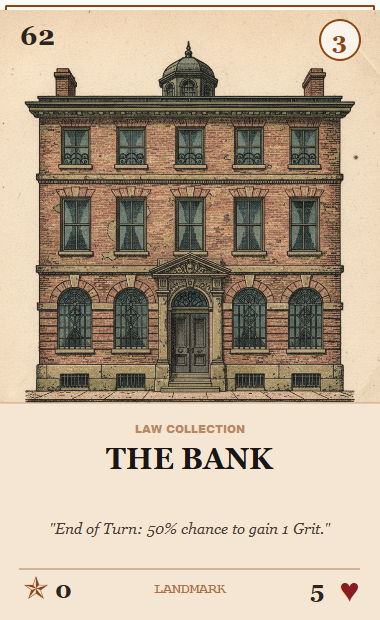
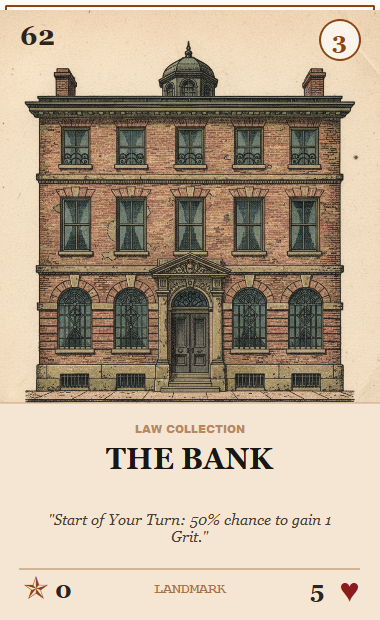
feat: Implement new game mechanics and enhance card interactions

Changed region(s): [[0.1158, 0.8274, 0.8684, 0.8887]]

diff --git a/html/cards.js b/html/cards.js
@@ -23,7 +23,7 @@ const _CardDB_fallback = [
     {id: 31, faction: "Law", name: "TELEGRAPH", type: "Unit", cost: 2, atk: 1, hp: 2, text: "Battlecry: Draw 1 card."},
     {id: 32, faction: "Law", name: "SNIPER", type: "Unit", cost: 4, atk: 4, hp: 2, text: "Immune while attacking."},
     {id: 33, faction: "Law", name: "COURTHOUSE", type: "Landmark", cost: 4, atk: 0, hp: 6, text: "Your units have +1 Health."},
-    {id: 62, faction: "Law", name: "THE BANK", type: "Landmark", cost: 3, atk: 0, hp: 5, text: "End of Turn: 50% chance to gain 1 Grit."},
+    {id: 62, faction: "Law", name: "THE BANK", type: "Landmark", cost: 3, atk: 0, hp: 5, text: "Start of your turn: 50% chance to gain 1 Grit."},
     {id: 68, faction: "Law", name: "THE GALLOWS", type: "Landmark", cost: 3, atk: 0, hp: 4, text: "Enemy units have -1 Attack."},
     {id: 74, faction: "Law", name: "SHERIFF BADGE", type: "Gear", cost: 2, atk: 0, hp: 0, text: "Give a Unit +1/+3 and Guardian."},
     {id: 80, faction: "Law", name: "MARSHAL EARP", type: "Hero", cost: 0, atk: 0, hp: 30, text: "Hero Power (2 Grit): Summon a 1/1 Deputy with Guard."},
@@ -187,17 +187,20 @@ function getCardLogic(cardData) {
         onPlay: null,
         onDeath: null,
         onTurnEnd: null,
-        onTurnStart: null
+        onTurnStart: null,
+        requiresTarget: false
     };
 
     const text = cardData.text ? cardData.text.toLowerCase() : "";
     const id = cardData.id;
 
-    // 1. Klíčová slova
-    if (text.includes("guardian")) logic.keywords.push("Guardian");
-    if (text.includes("ambush"))   logic.keywords.push("Ambush");
-    if (text.includes("stealth"))  logic.keywords.push("Stealth");
-    if (text.includes("lethal"))   logic.keywords.push("Lethal");
+    // 1. Klíčová slova (pouze pro Unit karty — aby Landmark s textem "have Stealth" nedostal keyword sám sobě)
+    if (cardData.type === "Unit") {
+        if (text.includes("guardian")) logic.keywords.push("Guardian");
+        if (text.includes("ambush"))   logic.keywords.push("Ambush");
+        if (text.includes("stealth"))  logic.keywords.push("Stealth");
+        if (text.includes("lethal"))   logic.keywords.push("Lethal");
+    }
 
     // Pasivní flagy
     if (text.includes("attack twice"))                                   logic.keywords.push("DoubleAttack");
@@ -338,6 +341,14 @@ function getCardLogic(cardData) {
                 return;
             }
 
+            // BEAR TRAP: Deal 3 damage to an undamaged Unit.
+            if (id === 15) {
+                if (target && typeof target !== "string" && target.hp === target.maxHp) {
+                    game.dealDamage(target, 3);
+                }
+                return;
+            }
+
             // PRAIRIE FIRE: Deal 1 damage to all Units. Repeat 3 times.
             if (id === 121) {
                 for (let i = 0; i < 3; i++) {
@@ -424,10 +435,11 @@ function getCardLogic(cardData) {
             // SHADOW WALKER (112): Battlecry: Deal 1 damage to all enemies.
             if (id === 112) { game.damageAllEnemies(1); return; }
 
-            // WITCH'S BREW (113): Give a Unit +3/+3.
+            // WITCH'S BREW (113): Give a Unit +3/+3. At end of turn, destroy it.
             if (id === 113) {
                 if (target && typeof target !== "string") {
                     target.atk += 3; target.hp += 3; target.maxHp += 3;
+                    target.scheduledDestroy = true;
                 }
                 return;
             }
@@ -456,10 +468,11 @@ function getCardLogic(cardData) {
             // CARD SHARK (118): Battlecry: Peek at top card (simplified: draw 1).
             if (id === 118) { game.drawCard("player", 1); return; }
 
-            // WHISKEY BOTTLE (119): Give a Unit +2 Attack.
+            // WHISKEY BOTTLE (119): Give a Unit +2 Attack until end of turn.
             if (id === 119) {
                 if (target && typeof target !== "string") {
                     target.atk += 2; target.baseAtk = target.atk;
+                    target.tempAtkBuff = (target.tempAtkBuff || 0) + 2;
                 }
                 return;
             }
@@ -510,7 +523,9 @@ function getCardLogic(cardData) {
                 let dmg = parseInt(dmgMatch[1]);
                 if (text.includes("to all characters")) {
                     game.damageAll(dmg, true);
-                } else if (text.includes("to all enemy units") || text.includes("to all units")) {
+                } else if (text.includes("to all enemy units")) {
+                    game.damageAllEnemies(dmg);
+                } else if (text.includes("to all units")) {
                     game.damageAll(dmg, false);
                 } else if (text.includes("to your hero")) {
                     game.damageHero("player", dmg);
@@ -641,11 +656,6 @@ function getCardLogic(cardData) {
                 game.healHero("player", 1);
                 return;
             }
-            // THE BANK: 50% chance to gain 1 Grit.
-            if (id === 62) {
-                if (Math.random() >= 0.5) game.addGrit("player", 1);
-                return;
-            }
             // OUTLAW CAMP (100): Give a random Outlaw in hand +1/+1.
             if (id === 100) {
                 let outlaws = playerHand.filter(c => c.faction === "Outlaw");
@@ -690,6 +700,11 @@ function getCardLogic(cardData) {
             // TRAIN STATION: Draw an extra card.
             if (id === 66) {
                 game.drawCard("player", 1);
+                return;
+            }
+            // THE BANK: 50% chance to gain 1 Grit.
+            if (id === 62) {
+                if (Math.random() >= 0.5) game.addGrit("player", 1);
                 return;
             }
         };
@@ -764,6 +779,33 @@ function getCardLogic(cardData) {
             if (id === 130) { game.drawAndPlayIfCheap("player", 3); return; }
         };
     }
+
+    // Karty vyžadující výběr cíle (dle ID) — Gear vždy, ostatní per ID
+    const REQUIRES_TARGET_IDS = new Set([
+        4,   // HANDCUFFS
+        8,   // DUELIST
+        9,   // MOLOTOV
+        15,  // BEAR TRAP
+        25,  // SAFECRACKER
+        26,  // THE HANGMAN
+        28,  // RAILROAD BOSS
+        30,  // CELL DOOR
+        39,  // GETAWAY HORSE
+        49,  // STRANGE MAN
+        58,  // SWAMP WITCH
+        82,  // SITTING BEAR
+        83,  // BARON SAMEDI
+        87,  // JUDGE'S GAVEL
+        89,  // PRISON WAGON
+        95,  // SNAKE EYES
+        97,  // SABOTAGE
+        113, // WITCH'S BREW
+        119, // WHISKEY BOTTLE
+        120, // BOUNTY HUNTER
+        126, // JUDGE HOLLIDAY
+        129, // THE PALE RIDER
+    ]);
+    logic.requiresTarget = cardData.type === "Gear" || REQUIRES_TARGET_IDS.has(id);
 
     return logic;
 }

diff --git a/html/game-state.js b/html/game-state.js
@@ -6,15 +6,27 @@ function checkDeaths() {
     // OLD GRAVEYARD (id:67): umírající unit friendly jde zpět do ruky
     const hasOldGraveyard = playerBoard.some(b => b.id === 67);
 
+    // UNDERTAKER (id:123): počítáme, kolik přátelských Unit (ne samotný Undertaker) zemřelo
+    let undertakerDeaths = 0;
+
+    // WENDIGO (id:110): sledujeme celkový počet zemřelých jednotek (obě strany)
+    let wendigoDeaths = 0;
+
+    // CURSED GROUND (id:111): jednotky umírající pod jeho vlivem nelze vzkřísit
+    const hasCursedGroundOnEnemy = enemyBoard.some(b => b.id === 111);
+
     playerBoard = playerBoard.filter(u => {
         if (u.hp <= 0) {
-            if (hasOldGraveyard && u.type === "Unit" && u.id !== 67 && playerHand.length < 10) {
+            if (hasCursedGroundOnEnemy && u.type === "Unit") u.cursed = true;
+            if (hasOldGraveyard && u.type === "Unit" && u.id !== 67 && !u.cursed && playerHand.length < 10) {
                 u.hp = u.maxHp;
                 u.canAttack = false;
                 u.auraAtk = 0; u.auraHp = 0; u.auraKeywords = [];
                 playerHand.push(u);
                 return false;
             }
+            if (u.type === "Unit" && u.id !== 123) undertakerDeaths++;
+            if (u.type === "Unit") wendigoDeaths++;
             if (u.logic && u.logic.onDeath) u.logic.onDeath(GameInterface, u);
             playerGraveyard.push(u);
             SoundFX.death();
@@ -23,13 +35,28 @@ function checkDeaths() {
         return true;
     });
 
+    // UNDERTAKER (id:123): za každou zesnulou přátelskou Unit gain +1 Grit
+    if (undertakerDeaths > 0 && playerBoard.some(b => b.id === 123)) {
+        GameInterface.addGrit("player", undertakerDeaths);
+    }
+
+    const hasCursedGroundOnPlayer = playerBoard.some(b => b.id === 111);
+
     enemyBoard = enemyBoard.filter(u => {
         if (u.hp <= 0) {
+            if (hasCursedGroundOnPlayer && u.type === "Unit") u.cursed = true;
+            if (u.type === "Unit") wendigoDeaths++;
             enemyGraveyard.push(u);
             return false;
         }
         return true;
     });
+
+    // WENDIGO (id:110): +2 Attack za každou zemřelou jednotku
+    if (wendigoDeaths > 0) {
+        playerBoard.filter(u => u.id === 110).forEach(u => { u.atk += 2 * wendigoDeaths; u.baseAtk = u.atk; });
+        enemyBoard.filter(u => u.id === 110).forEach(u => { u.atk += 2 * wendigoDeaths; u.baseAtk = u.atk; });
+    }
 
     if (playerHp <= 0) {
         showEndScreen(false);

diff --git a/html/interaction.js b/html/interaction.js
@@ -18,25 +18,7 @@ function handleCardClick(index) {
         return;
     }
 
-    const text = card.text.toLowerCase();
-    const needsTarget = (
-        card.type === "Gear" ||
-        (card.type === "Spell" && (
-            text.includes("deal") ||
-            text.includes("give") ||
-            text.includes("destroy") ||
-            text.includes("heal") ||
-            text.includes("return a unit") ||
-            text.includes("choose an enemy")
-        )) ||
-        (card.logic.onPlay && text.includes("target"))
-    );
-
-    const isGlobal = text.includes("all units") || text.includes("all characters") ||
-        text.includes("all enemy") || text.includes("all friendly") ||
-        text.includes("all damaged") || text.includes("random");
-
-    if (needsTarget && !isGlobal) {
+    if (card.logic.requiresTarget) {
         selectedCardIndex = index;
         selectedAttacker = null;
         updateUI();
@@ -62,6 +44,11 @@ function handleUnitClick(unit, isEnemy) {
         if (isEnemy && unit.keywords.includes("Stealth")) return;
         // WHITE BISON (id:43): imunní vůči Spellům a Gearům
         if (unit.id === 43 && (card.type === "Spell" || card.type === "Gear")) return;
+        // Gear limit: max 2 slotů (nebo target.gearSlots pokud karta říká jinak)
+        if (card.type === "Gear" && unit.type === "Unit") {
+            let maxGear = unit.gearSlots || 2;
+            if ((unit.gear || []).length >= maxGear) return;
+        }
         playCard(selectedCardIndex, unit);
         selectedCardIndex = -1;
         return;

diff --git a/html/render.js b/html/render.js
@@ -43,7 +43,7 @@ function applyAuras() {
 
         let newAuraKeywords = [];
         if (hasGangLeader && u.faction === "Outlaw" && u.id !== 35) newAuraKeywords.push("Ambush");
-        if (hasHideout) newAuraKeywords.push("Stealth");
+        if (hasHideout && u.type === "Unit" && !u.keywords.includes("Guardian")) newAuraKeywords.push("Stealth");
 
         newAuraKeywords.forEach(k => { if (!u.keywords.includes(k)) u.keywords.push(k); });
         u.auraKeywords = newAuraKeywords;
@@ -124,9 +124,13 @@ function updateUI() {
     }
     $("#opp-hero").toggleClass("hero-targetable", !!(heroAttackable || heroSpellTargetable));
 
-    $("#opp-hero").off("click mousedown")
+    $("#opp-hero").off("click mousedown contextmenu")
         .on("mousedown", function(e) { e.stopPropagation(); })
-        .on("click", handleEnemyHeroClick);
+        .on("click", handleEnemyHeroClick)
+        .on("contextmenu", (e) => { e.preventDefault(); if (enemyHeroCard) showCardZoom(enemyHeroCard); });
+
+    $("#player-hero").off("contextmenu")
+        .on("contextmenu", (e) => { e.preventDefault(); if (playerHeroCard) showCardZoom(playerHeroCard); });
 }
 
 function renderBoard(container, boardData, isEnemy) {

diff --git a/html/game-interface.js b/html/game-interface.js
@@ -119,7 +119,7 @@ function makeGameInterface(perspective) {
             const hand  = getHand(actual);
             let idx = -1;
             for (let i = grave.length - 1; i >= 0; i--) {
-                if (grave[i].type === "Unit") { idx = i; break; }
+                if (grave[i].type === "Unit" && !grave[i].cursed) { idx = i; break; }
             }
             if (idx > -1 && hand.length < 10) {
                 let card = grave.splice(idx, 1)[0];
@@ -132,7 +132,7 @@ function makeGameInterface(perspective) {
             const actual = flip(owner);
             const grave = getGrave(actual);
             const board = getBoard(actual);
-            let pool = grave.filter(c => c.type === "Unit" && (!faction || c.faction === faction));
+            let pool = grave.filter(c => c.type === "Unit" && !c.cursed && (!faction || c.faction === faction));
             if (pool.length > 0) {
                 let card = pool[Math.floor(Math.random() * pool.length)];
                 grave.splice(grave.indexOf(card), 1);

diff --git a/html/card-mechanics.js b/html/card-mechanics.js
@@ -12,6 +12,10 @@ function getCardCost(card) {
     if (card.type === "Unit" && playerBoard.some(b => b.id === 93)) {
         cost = Math.max(0, cost - 1);
     }
+    // BEAVER DAM (id:70): Enemy units cost (1) more — pokud AI má Beaver Dam, hráčovy jednotky stojí +1
+    if (card.type === "Unit" && enemyBoard.some(b => b.id === 70)) {
+        cost += 1;
+    }
     return cost;
 }
 
@@ -56,6 +60,8 @@ function playCard(index, target) {
     } else if (card.type === "Gear") {
         if (target && target.type === "Unit") {
             if (!target.gear) target.gear = [];
+            let maxGear = target.gearSlots || 2;
+            if (target.gear.length >= maxGear) return;
             target.gear.push(card);
             if (card.logic && card.logic.onPlay) {
                 card.logic.onPlay(GameInterface, card, target);

diff --git a/html/turn.js b/html/turn.js
@@ -48,6 +48,19 @@ function endTurn() {
     playerBoard.forEach(u => {
         if (u.logic && u.logic.onTurnEnd) u.logic.onTurnEnd(GameInterface, u);
     });
+
+    // WHISKEY BOTTLE (id:119): Revertovat dočasné útokové buffy
+    playerBoard.forEach(u => {
+        if (u.tempAtkBuff) {
+            u.atk = Math.max(0, u.atk - u.tempAtkBuff);
+            u.baseAtk = u.atk;
+            delete u.tempAtkBuff;
+        }
+    });
+
+    // WITCH'S BREW (id:113): Zničit jednotky označené scheduledDestroy
+    playerBoard.forEach(u => { if (u.scheduledDestroy) u.hp = -99; });
+
     checkDeaths();
 
     $("#game-message").text("ENEMY TURN");

diff --git a/html/nui.js b/html/nui.js
@@ -84,7 +84,8 @@ $(document).ready(function() {
 
     // Pravé tlačítko mimo kartu zavře zoom
     $(document).on("contextmenu", function(e) {
-        if (!$(e.target).closest('.card').length) {
+        if (!$(e.target).closest('.card').length &&
+            !$(e.target).closest('.hero-portrait').length) {
             e.preventDefault();
             hideCardZoom();
         }

diff --git a/html/hero-select.js b/html/hero-select.js
@@ -101,6 +101,7 @@ function initGame(isFirst, oppName, chosenHero, enemyHeroOverride) {
 
     // Nastavení oponenta
     let enemyHero = enemyHeroOverride || CardDB.filter(c => c.type === "Hero" && c.id !== chosenHero.id)[0] || CardDB[80];
+    enemyHeroCard = enemyHero;
     enemyHp = enemyHero.hp;
     enemyMaxHp = enemyHero.hp;
     $("#opp-name").text(oppName);

diff --git a/html/ai.js b/html/ai.js
@@ -24,7 +24,7 @@ function startAITurn() {
         if (playableIdx > -1 && enemyBoard.length < 7) {
             let card = enemyHandAI[playableIdx];
 
-            aiMana -= card.cost;
+            aiMana -= (card.cost + beaverPenalty);
             enemyHandAI.splice(playableIdx, 1);
             enemyBoard.push(card);
 

diff --git a/html/state.js b/html/state.js
@@ -48,6 +48,7 @@ let selectedAttacker = null;
 
 // Hero Power
 let playerHeroCard = null;
+let enemyHeroCard = null;
 let playerHeroLogic = null;
 let heroPowerUsed = false;
 let heroPowerMode = false;
